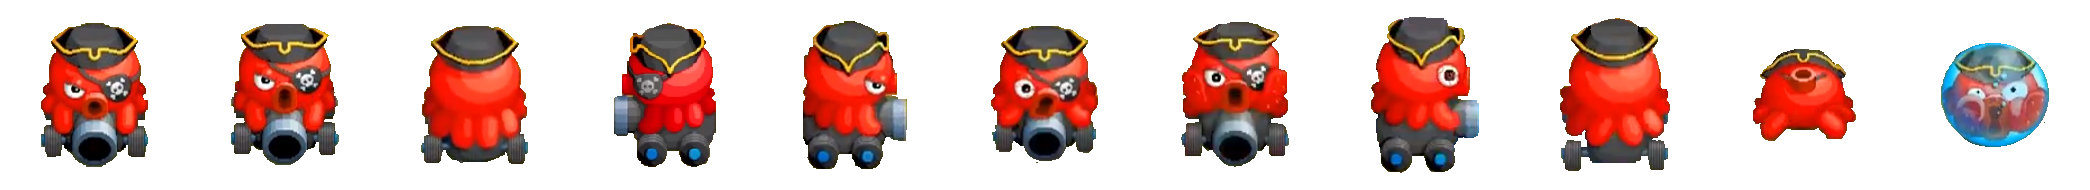
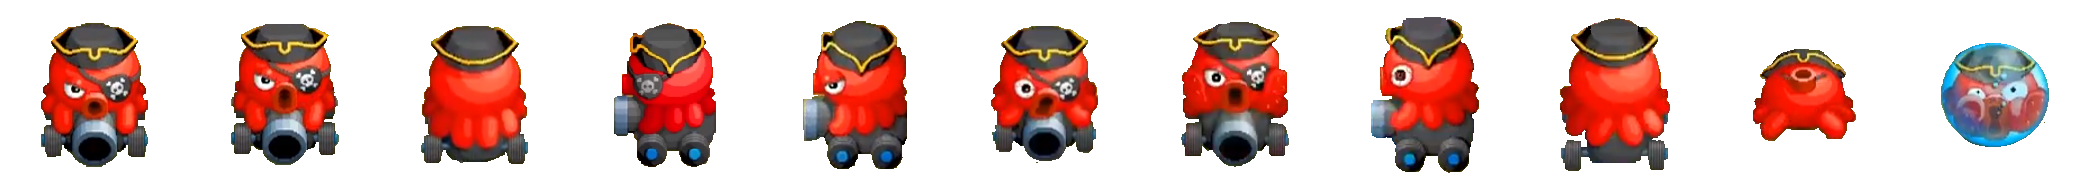
Octoboss seperated from Enemy

Changed region(s): [[0.6531, 0.1053, 0.7153, 0.9211], [0.3732, 0.1053, 0.4354, 0.8947]]

diff --git a/CrazyArcade/Boss/OctopusEnemy.cs b/CrazyArcade/Boss/OctopusEnemy.cs
@@ -6,25 +6,100 @@ using CrazyArcade.Content;
 using Microsoft.Xna.Framework;
 using Microsoft.Xna.Framework.Graphics;
 using Microsoft.Xna.Framework.Input;
+using CrazyArcade.GameGridSystems;
+using CrazyArcade.Blocks;
+
 namespace CrazyArcade.Boss
 {
-    public class OctopusEnemy : Enemy
+    public class OctopusEnemy : CAEntity, IGridable, IPlayerCollidable
     {
+        public SpriteAnimation[] spriteAnims;
+        public SpriteAnimation spriteAnim;
         private Texture2D texture;
+        public CAScene scene;
+        protected Vector2 Start;
+        protected float xDifference;
+        protected float yDifference;
         private Rectangle[] InputFramesRight;
         private Rectangle[] InputFramesLeft;
         private Rectangle[] InputFramesUp;
         private Rectangle[] InputFramesDown;
         private Dir[] dirList;
+        protected SpriteEffects effect;
         private Color tint;
+        public Dir direction;
         public Rectangle outputFrame1;
-        public override SpriteAnimation SpriteAnim => spriteAnims[(int)direction];
 
+        protected Rectangle internalRectangle = new Rectangle(0, 0, 109, 145);
+
+        private Vector2 gamePos;
+        private Vector2 pos;
+        public IEnemyState state;
+        public SpriteAnimation deathAnimation;
+        private float timer;
+        protected int fps = 10;
+        public Vector2 ScreenCoord
+        {
+            get => pos;
+            set
+            {
+                pos = value;
+                this.UpdateCoord(value);
+            }
+        }
+        public void UpdateCoord(Vector2 value)
+        {
+            this.X = (int)value.X;
+            this.Y = (int)value.Y;
+        }
+        public Vector2 GameCoord
+        {
+            get => gamePos;
+            set
+            {
+                gamePos = value;
+                ScreenCoord = trans.Trans(value);
+            }
+        }
+        private IGridTransform trans = new NullTransform();
+        public IGridTransform Trans
+        {
+            get => trans; set
+            {
+                trans = value;
+                ScreenCoord = value.Trans(GameCoord);
+                X = (int)ScreenCoord.X;
+                Y = (int)ScreenCoord.Y;
+                internalRectangle.X = X;
+                internalRectangle.Y = Y;
+            }
+        }
+        public override SpriteAnimation SpriteAnim => spriteAnims[(int)direction];
+        public Rectangle boundingBox => internalRectangle;
 
         public Rectangle inputFrame;
 
-        public OctopusEnemy(int x, int y, CAScene scene) : base(x, y, scene)
+        public void CollisionLogic(Rectangle overlap, IPlayerCollisionBehavior collisionPartner)
         {
+            collisionPartner.CollisionDestroyLogic();
+            //To show the state only, this line of code needs to be moved once bomb -> enemy collision is implemented to CollisionDestroyLogic 
+
+            //pseudo code:
+            //if(collisionPartner is bomb blast){
+            //  lower health;
+            //  if(health<1){
+            //      state = new EnemyDeathState(this);
+            //  }
+            //}
+        }
+        public OctopusEnemy(int x, int y, CAScene scene) : base()
+        {
+            timer = 0;
+            this.scene = scene;
+            GameCoord = new Vector2(x, y - 2);
+            Start = GameCoord;
+            X = x;
+            Y = y;
             texture = TextureSingleton.GetOctoBoss();
             spriteAnims = new SpriteAnimation[4];
         }
@@ -35,19 +110,13 @@ namespace CrazyArcade.Boss
             dirList = new Dir[4];
             effect = SpriteEffects.None;
             texture = TextureSingleton.GetOctoBoss();
-            InputFramesRight = new Rectangle[2];
-            InputFramesUp = new Rectangle[2];
-            InputFramesLeft = new Rectangle[2];
+            InputFramesRight = new Rectangle[1];
+            InputFramesUp = new Rectangle[1];
+            InputFramesLeft = new Rectangle[1];
             InputFramesDown = new Rectangle[2];
-            InputFramesRight[0] = new Rectangle(614, 23, 102, 144); 
-            InputFramesLeft[0] = new Rectangle(803, 21, 104, 148);
+            InputFramesRight[0] = new Rectangle(803, 21, 104, 148);
+            InputFramesLeft[0] = new Rectangle(614, 23, 102, 144);
             InputFramesUp[0] = new Rectangle(421, 26, 107, 138);
-
-
-            InputFramesRight[1] = new Rectangle(614, 23, 102, 144);
-            InputFramesLeft[1] = new Rectangle(803, 21, 104, 148);
-            InputFramesUp[1] = new Rectangle(421, 26, 107, 138);
-
             InputFramesDown[0] = new Rectangle(41, 23, 107, 144);
             InputFramesDown[1] = new Rectangle(231, 24, 108, 141);
 
@@ -70,15 +139,34 @@ namespace CrazyArcade.Boss
             deathAnimation = spriteAnim;
         }
 
-        protected override Vector2[] SpeedVector => speedVector;
+        protected bool ChangeDir(Dir dir)
+        {
+            switch (dir)
+            {
+                case Dir.Right:
 
+                    return xDifference >= 4;
+
+                case Dir.Up:
+
+                    return yDifference <= 0;
+
+                case Dir.Down:
+
+                    return yDifference >= 4;
+                case Dir.Left:
+                    return xDifference <= 0;
+            }
+            return false;
+        }
+        protected Vector2[] SpeedVector => speedVector;
         protected void move(Dir dir)
         {
             if (ChangeDir(dir))
             {
                 direction = (Dir)((((int)dir) + 1) % 4);
-                effect = direction == Dir.Right ? SpriteEffects.FlipHorizontally : SpriteEffects.None;
-                UpdateAnimation();
+                //effect = direction == Dir.Left ? SpriteEffects.FlipHorizontally : SpriteEffects.None;
+                UpdateAnimation(dir);
             }
 
             GameCoord += SpeedVector[(int)dir];
@@ -93,5 +181,38 @@ namespace CrazyArcade.Boss
             new Vector2(0.15f, 0.0f),
         };
 
+        public override void Update(GameTime time)
+        {
+
+            // handled animation updated (position and frame) in abstract level
+
+            SpriteAnim.Position = new Vector2(X, Y);
+            SpriteAnim.setEffect(effect);
+            xDifference = GameCoord.X - Start.X;
+            yDifference = GameCoord.Y - Start.Y;
+            if (state != null)
+            {
+                state.Update(time);
+            }
+            if (timer > 1f / 6)
+            {
+                if (state is not EnemyDeathState)
+                {
+                    move(direction);
+                }
+                timer = 0;
+            }
+            else
+            {
+                timer += (float)time.ElapsedGameTime.TotalMilliseconds;
+            }
+            internalRectangle.X = X;
+            internalRectangle.Y = Y;
+        }
+
+        public void UpdateAnimation(Dir dir)
+        {
+            this.spriteAnims[(int)direction].Position = new Vector2(X, Y);
+        }
     }
 }

diff --git a/CrazyArcade/Content/TextureSingleton.cs b/CrazyArcade/Content/TextureSingleton.cs
@@ -26,7 +26,7 @@ namespace CrazyArcade.Content
         }
         private static void DefineArrays()
         {
-            fileNames = new string[] {"Balloons","BombEnemy", "Bubble", "DesertBlocks", "Pirate", "Player1", "Powerups", "Rides", "OctoBoss", "Sneaker", "Turtle", "Bomb", "Coin", "Coinbag", "Potion", "bomberman_enemies", "bombermanII_enemies","blue_background","splash", "door" };
+            fileNames = new string[] {"Balloons","BombEnemy", "Bubble", "DesertBlocks", "Pirate", "Player1", "Powerups", "Rides", "OctobossFull", "Sneaker", "Turtle", "Bomb", "Coin", "Coinbag", "Potion", "bomberman_enemies", "bombermanII_enemies","blue_background","splash", "door" };
             spriteSheets = new Texture2D[fileNames.Length];
             fonts = new SpriteFont[1];
         }

diff --git a/CrazyArcade/CAFrameWork/CAGame/CAGame.cs b/CrazyArcade/CAFrameWork/CAGame/CAGame.cs
@@ -82,7 +82,7 @@ public class CAGame : Game, IGameDelegate, ITransitionCompleteHandler
         CurrentLevel = test.levelObject;
         map = new ReadJSON("Map.json", ReadJSON.fileType.MapFile);
         levelFileNames = map.mapObject.Levels;
-        LevelSongTitles = new string[] { "playground","playground","playground","comical","bridge","dream","kodama", "worldbeat", "funtimes" };
+        LevelSongTitles = new string[] { "playground","playground","playground","comical","bridge","dream","kodama", "worldbeat", "funtimes", "funtimes","funtimes" };
         scene.Load();
     }
 
